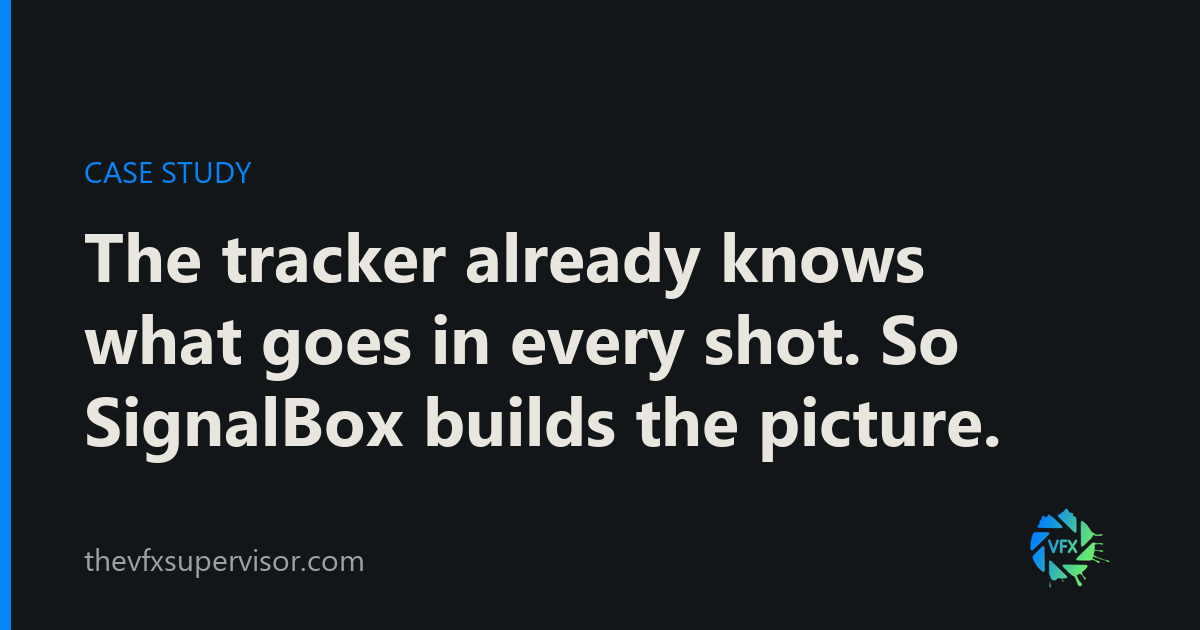
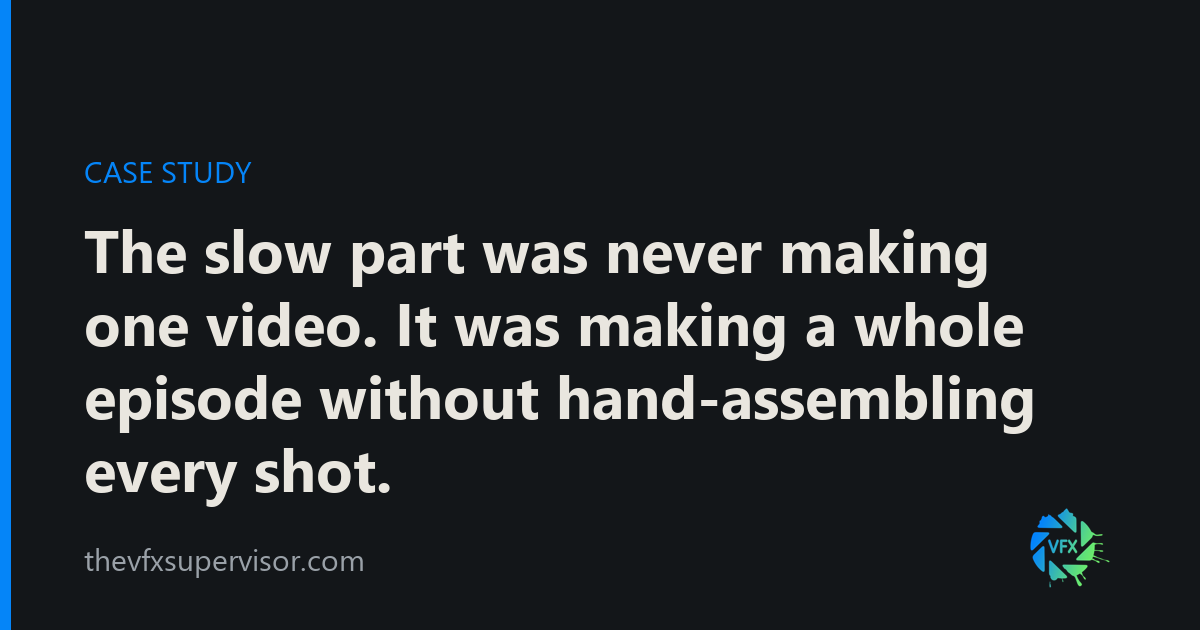
New headline, and the SEO layer follows it
Geoff's line replaces the old H1, which led with the mechanism rather than the
problem. The lede was a weaker version of the same sentence, so it now answers
instead of repeating: what SignalBox does about it.

Title, meta description, card summary and the OG card all follow, and llms.txt
and llms-full.txt regenerate from them.

Claude-Session: https://claude.ai/code/session_01WgaGcWQ2W5m5PryDwbbE2Q

Changed region(s): [[0.0617, 0.3619, 0.8633, 0.8143]]

diff --git a/docs/projects/signalbox/index.html b/docs/projects/signalbox/index.html
@@ -4,23 +4,23 @@
 <meta charset="utf-8">
 <meta name="viewport" content="width=device-width, initial-scale=1">
 <meta name="robots" content="index, follow">
-<title>SignalBox: the tracker builds the picture | the vfx supervisor</title>
-<meta name="description" content="Your tracker already knows which assets are in which shot. SignalBox uses that to build the picture, and the revisions, in the normal review process. MIT.">
+<title>SignalBox: a whole episode at a time | the vfx supervisor</title>
+<meta name="description" content="The slow part was never one video. SignalBox builds a whole episode from what your tracker already knows, revisions included, in the normal review. MIT.">
 <link rel="icon" type="image/png" sizes="256x256" href="/static/favicon.png">
 <link rel="apple-touch-icon" href="/static/apple-touch-icon.png">
 <link rel="canonical" href="https://thevfxsupervisor.com/projects/signalbox/">
 <meta property="og:type" content="website">
 <meta property="og:site_name" content="the vfx supervisor">
-<meta property="og:title" content="SignalBox: the tracker builds the picture | the vfx supervisor">
-<meta property="og:description" content="Your tracker already knows which assets are in which shot. SignalBox uses that to build the picture, and the revisions, in the normal review process. MIT.">
+<meta property="og:title" content="SignalBox: a whole episode at a time | the vfx supervisor">
+<meta property="og:description" content="The slow part was never one video. SignalBox builds a whole episode from what your tracker already knows, revisions included, in the normal review. MIT.">
 <meta property="og:url" content="https://thevfxsupervisor.com/projects/signalbox/">
 <meta property="og:image" content="https://thevfxsupervisor.com/static/og/signalbox.png">
 <meta property="og:image:width" content="1200">
 <meta property="og:image:height" content="630">
-<meta property="og:image:alt" content="SignalBox: the tracker builds the picture | the vfx supervisor">
+<meta property="og:image:alt" content="SignalBox: a whole episode at a time | the vfx supervisor">
 <meta name="twitter:card" content="summary_large_image">
-<meta name="twitter:title" content="SignalBox: the tracker builds the picture | the vfx supervisor">
-<meta name="twitter:description" content="Your tracker already knows which assets are in which shot. SignalBox uses that to build the picture, and the revisions, in the normal review process. MIT.">
+<meta name="twitter:title" content="SignalBox: a whole episode at a time | the vfx supervisor">
+<meta name="twitter:description" content="The slow part was never one video. SignalBox builds a whole episode from what your tracker already knows, revisions included, in the normal review. MIT.">
 <meta name="twitter:image" content="https://thevfxsupervisor.com/static/og/signalbox.png">
 <link rel="stylesheet" href="/static/style.css?v=d10b6e72">
   <link rel="alternate" type="application/rss+xml" title="the vfx supervisor" href="https://thevfxsupervisor.com/feed.xml">
@@ -50,8 +50,8 @@
 <section class="hero">
   <div class="wrap">
     <span class="eyebrow">Case study</span>
-    <h1 style="margin-top:18px">The tracker already knows what goes in every shot. So SignalBox builds the picture.</h1>
-    <p class="lede">The hard part was never making one picture. It was making them across a whole episode without hand-assembling every shot.</p>
+    <h1 style="margin-top:18px">The slow part was never making one video. It was making a whole episode without hand-assembling every shot.</h1>
+    <p class="lede">SignalBox reads the connections already sitting in your production tracker, builds the shot from them, and takes revision notes back through the same review.</p>
     <div class="cta-row"><a class="btn btn-a" href="https://github.com/thevfxsupervisor/signalbox">See the code</a><a class="btn btn-b" href="/about/">Work with me</a></div>
     <div class="cred"><span class="dot"></span><b>Built and run by one person, on one workstation, against a live Autodesk Flow site on an in-development animated short.</b></div>
   </div>
@@ -131,7 +131,7 @@
  "@context": "https://schema.org",
  "@type": "SoftwareSourceCode",
  "name": "SignalBox",
- "description": "Your tracker already knows which assets are in which shot. SignalBox uses that to build the picture, and the revisions, in the normal review process. MIT.",
+ "description": "The slow part was never one video. SignalBox builds a whole episode from what your tracker already knows, revisions included, in the normal review. MIT.",
  "codeRepository": "https://github.com/thevfxsupervisor/signalbox",
  "url": "https://thevfxsupervisor.com/projects/signalbox/",
  "author": {

diff --git a/docs/index.html b/docs/index.html
@@ -67,7 +67,7 @@
 <section id="projects-links">
   <div class="wrap">
     <span class="eyebrow">Projects &amp; links</span>
-    <div class="proj-grid"><a class="proj-card flagship" href="/projects/breakdown-studio/"><span class="eyebrow">Flagship · open source</span><h2>Breakdown Studio</h2><p>A shot-breakdown pipeline that turns weeks of hand-logging a film cut into an afternoon. Built solo, validated on a feature in active production, MIT.</p><span class="proj-more mono">Read the case study &rarr;</span></a><a class="proj-card" href="/projects/signalbox/"><span class="eyebrow">Case study · open source</span><h2>SignalBox</h2><p>The tracker already holds the character and set references, which assets are in which shot, and the beats behind each one. SignalBox uses that to build the picture, and the revisions, inside the normal review process. Open source, MIT.</p><span class="proj-more mono">Read the case study &rarr;</span></a><a class="proj-card" href="/projects/link-session/"><span class="eyebrow">Claude Agent Skill · open source</span><h2>link-session</h2><p>A Claude Code skill for coordinating several live AI agent sessions over shared files. No server, no message bus. It now starts a new session straight into a role from a library of bootstrap templates.</p><span class="proj-more mono">Read the case study &rarr;</span></a><a class="proj-card" href="/course/"><span class="eyebrow">Course &middot; free waitlist</span><h2>A course teaching the method</h2><p>Break down and budget a whole film solo, with an AI pair doing the grunt work. Founding cohort 325 USD.</p><span class="proj-more mono">See the course &rarr;</span></a><a class="proj-card" href="/about/"><span class="eyebrow">About &middot; Full credits</span><h2>Credits, awards and how I work</h2><p>VFX for Eastwood, the Wachowskis and Affleck: Changeling (VES Award), J. Edgar, Invictus, Argo, Cloud Atlas. Work for Netflix, Pandora, LEGO, Kia. Copenhagen.</p><span class="proj-more mono">More about me &rarr;</span></a></div>
+    <div class="proj-grid"><a class="proj-card flagship" href="/projects/breakdown-studio/"><span class="eyebrow">Flagship · open source</span><h2>Breakdown Studio</h2><p>A shot-breakdown pipeline that turns weeks of hand-logging a film cut into an afternoon. Built solo, validated on a feature in active production, MIT.</p><span class="proj-more mono">Read the case study &rarr;</span></a><a class="proj-card" href="/projects/signalbox/"><span class="eyebrow">Case study · open source</span><h2>SignalBox</h2><p>The slow part was never making one video. SignalBox builds a whole episode from the connections already in your tracker, revisions included, inside the review a crew already runs.</p><span class="proj-more mono">Read the case study &rarr;</span></a><a class="proj-card" href="/projects/link-session/"><span class="eyebrow">Claude Agent Skill · open source</span><h2>link-session</h2><p>A Claude Code skill for coordinating several live AI agent sessions over shared files. No server, no message bus. It now starts a new session straight into a role from a library of bootstrap templates.</p><span class="proj-more mono">Read the case study &rarr;</span></a><a class="proj-card" href="/course/"><span class="eyebrow">Course &middot; free waitlist</span><h2>A course teaching the method</h2><p>Break down and budget a whole film solo, with an AI pair doing the grunt work. Founding cohort 325 USD.</p><span class="proj-more mono">See the course &rarr;</span></a><a class="proj-card" href="/about/"><span class="eyebrow">About &middot; Full credits</span><h2>Credits, awards and how I work</h2><p>VFX for Eastwood, the Wachowskis and Affleck: Changeling (VES Award), J. Edgar, Invictus, Argo, Cloud Atlas. Work for Netflix, Pandora, LEGO, Kia. Copenhagen.</p><span class="proj-more mono">More about me &rarr;</span></a></div>
     <div class="ql-row" style="margin-top:22px"><a href="/notes/">Notes</a> &middot; <a href="https://github.com/thevfxsupervisor">GitHub</a> &middot; <a href="mailto:geoff@thevfxsupervisor.com">Contact</a></div>
   </div>
 </section>

diff --git a/docs/projects/index.html b/docs/projects/index.html
@@ -52,7 +52,7 @@
     <span class="eyebrow">Projects</span>
     <h1 style="margin-top:18px">Tools I built on real productions, then open-sourced</h1>
     <p class="lede">I build the tooling a one-person VFX department needs to survive a real film, then release it. Here is what has shipped.</p>
-    <div class="proj-grid"><a class="proj-card flagship" href="/projects/breakdown-studio/"><span class="eyebrow">Flagship · open source</span><h2>Breakdown Studio</h2><p>A shot-breakdown pipeline that turns weeks of hand-logging a film cut into an afternoon. Built solo, validated on a feature in active production, MIT.</p><span class="proj-more mono">Read the case study &rarr;</span></a><a class="proj-card" href="/projects/signalbox/"><span class="eyebrow">Case study · open source</span><h2>SignalBox</h2><p>The tracker already holds the character and set references, which assets are in which shot, and the beats behind each one. SignalBox uses that to build the picture, and the revisions, inside the normal review process. Open source, MIT.</p><span class="proj-more mono">Read the case study &rarr;</span></a><a class="proj-card" href="/projects/link-session/"><span class="eyebrow">Claude Agent Skill · open source</span><h2>link-session</h2><p>A Claude Code skill for coordinating several live AI agent sessions over shared files. No server, no message bus. It now starts a new session straight into a role from a library of bootstrap templates.</p><span class="proj-more mono">Read the case study &rarr;</span></a></div>
+    <div class="proj-grid"><a class="proj-card flagship" href="/projects/breakdown-studio/"><span class="eyebrow">Flagship · open source</span><h2>Breakdown Studio</h2><p>A shot-breakdown pipeline that turns weeks of hand-logging a film cut into an afternoon. Built solo, validated on a feature in active production, MIT.</p><span class="proj-more mono">Read the case study &rarr;</span></a><a class="proj-card" href="/projects/signalbox/"><span class="eyebrow">Case study · open source</span><h2>SignalBox</h2><p>The slow part was never making one video. SignalBox builds a whole episode from the connections already in your tracker, revisions included, inside the review a crew already runs.</p><span class="proj-more mono">Read the case study &rarr;</span></a><a class="proj-card" href="/projects/link-session/"><span class="eyebrow">Claude Agent Skill · open source</span><h2>link-session</h2><p>A Claude Code skill for coordinating several live AI agent sessions over shared files. No server, no message bus. It now starts a new session straight into a role from a library of bootstrap templates.</p><span class="proj-more mono">Read the case study &rarr;</span></a></div>
   </div>
 </section>
 

diff --git a/docs/notes/the-cheapest-message-is-the-one-nobody-sends/index.html b/docs/notes/the-cheapest-message-is-the-one-nobody-sends/index.html
@@ -127,7 +127,7 @@
   "@type": "WebPage",
   "@id": "https://thevfxsupervisor.com/notes/the-cheapest-message-is-the-one-nobody-sends/"
  },
- "dateModified": "2026-08-19"
+ "dateModified": "2026-09-18"
 }
 </script>
 <script type="application/ld+json">

diff --git a/docs/notes/keeping-a-long-running-ai-agent-in-sync/index.html b/docs/notes/keeping-a-long-running-ai-agent-in-sync/index.html
@@ -124,7 +124,7 @@
   "@type": "WebPage",
   "@id": "https://thevfxsupervisor.com/notes/keeping-a-long-running-ai-agent-in-sync/"
  },
- "dateModified": "2026-08-14"
+ "dateModified": "2026-09-18"
 }
 </script>
 <script type="application/ld+json">

diff --git a/docs/notes/running-ai-agents-as-a-coordinated-team/index.html b/docs/notes/running-ai-agents-as-a-coordinated-team/index.html
@@ -130,7 +130,7 @@
   "@type": "WebPage",
   "@id": "https://thevfxsupervisor.com/notes/running-ai-agents-as-a-coordinated-team/"
  },
- "dateModified": "2026-08-07"
+ "dateModified": "2026-09-18"
 }
 </script>
 <script type="application/ld+json">

diff --git a/docs/notes/the-eleven-things-i-check/index.html b/docs/notes/the-eleven-things-i-check/index.html
@@ -121,7 +121,7 @@
   "@type": "WebPage",
   "@id": "https://thevfxsupervisor.com/notes/the-eleven-things-i-check/"
  },
- "dateModified": "2026-08-18"
+ "dateModified": "2026-09-18"
 }
 </script>
 <script type="application/ld+json">

diff --git a/docs/notes/the-bad-monitor/index.html b/docs/notes/the-bad-monitor/index.html
@@ -124,7 +124,7 @@
   "@type": "WebPage",
   "@id": "https://thevfxsupervisor.com/notes/the-bad-monitor/"
  },
- "dateModified": "2026-08-18"
+ "dateModified": "2026-09-18"
 }
 </script>
 <script type="application/ld+json">

diff --git a/content/projects/signalbox.md b/content/projects/signalbox.md
@@ -1,11 +1,11 @@
 ---
 type: project
 slug: signalbox
-title: SignalBox: the tracker builds the picture | the vfx supervisor
-description: Your tracker already knows which assets are in which shot. SignalBox uses that to build the picture, and the revisions, in the normal review process. MIT.
+title: SignalBox: a whole episode at a time | the vfx supervisor
+description: The slow part was never one video. SignalBox builds a whole episode from what your tracker already knows, revisions included, in the normal review. MIT.
 eyebrow: Case study
-h1: The tracker already knows what goes in every shot. So SignalBox builds the picture.
-lede: The hard part was never making one picture. It was making them across a whole episode without hand-assembling every shot.
+h1: The slow part was never making one video. It was making a whole episode without hand-assembling every shot.
+lede: SignalBox reads the connections already sitting in your production tracker, builds the shot from them, and takes revision notes back through the same review.
 cred: Built and run by one person, on one workstation, against a live Autodesk Flow site on an in-development animated short.
 get_label: See the code
 get_href: https://github.com/thevfxsupervisor/signalbox
@@ -23,7 +23,7 @@ final_secondary_href: /course/
 soon: Open source · MIT · on GitHub
 card_title: SignalBox
 card_eyebrow: Case study · open source
-card_summary: The tracker already holds the character and set references, which assets are in which shot, and the beats behind each one. SignalBox uses that to build the picture, and the revisions, inside the normal review process. Open source, MIT.
+card_summary: The slow part was never making one video. SignalBox builds a whole episode from the connections already in your tracker, revisions included, inside the review a crew already runs.
 ---
 
 ## The idea
